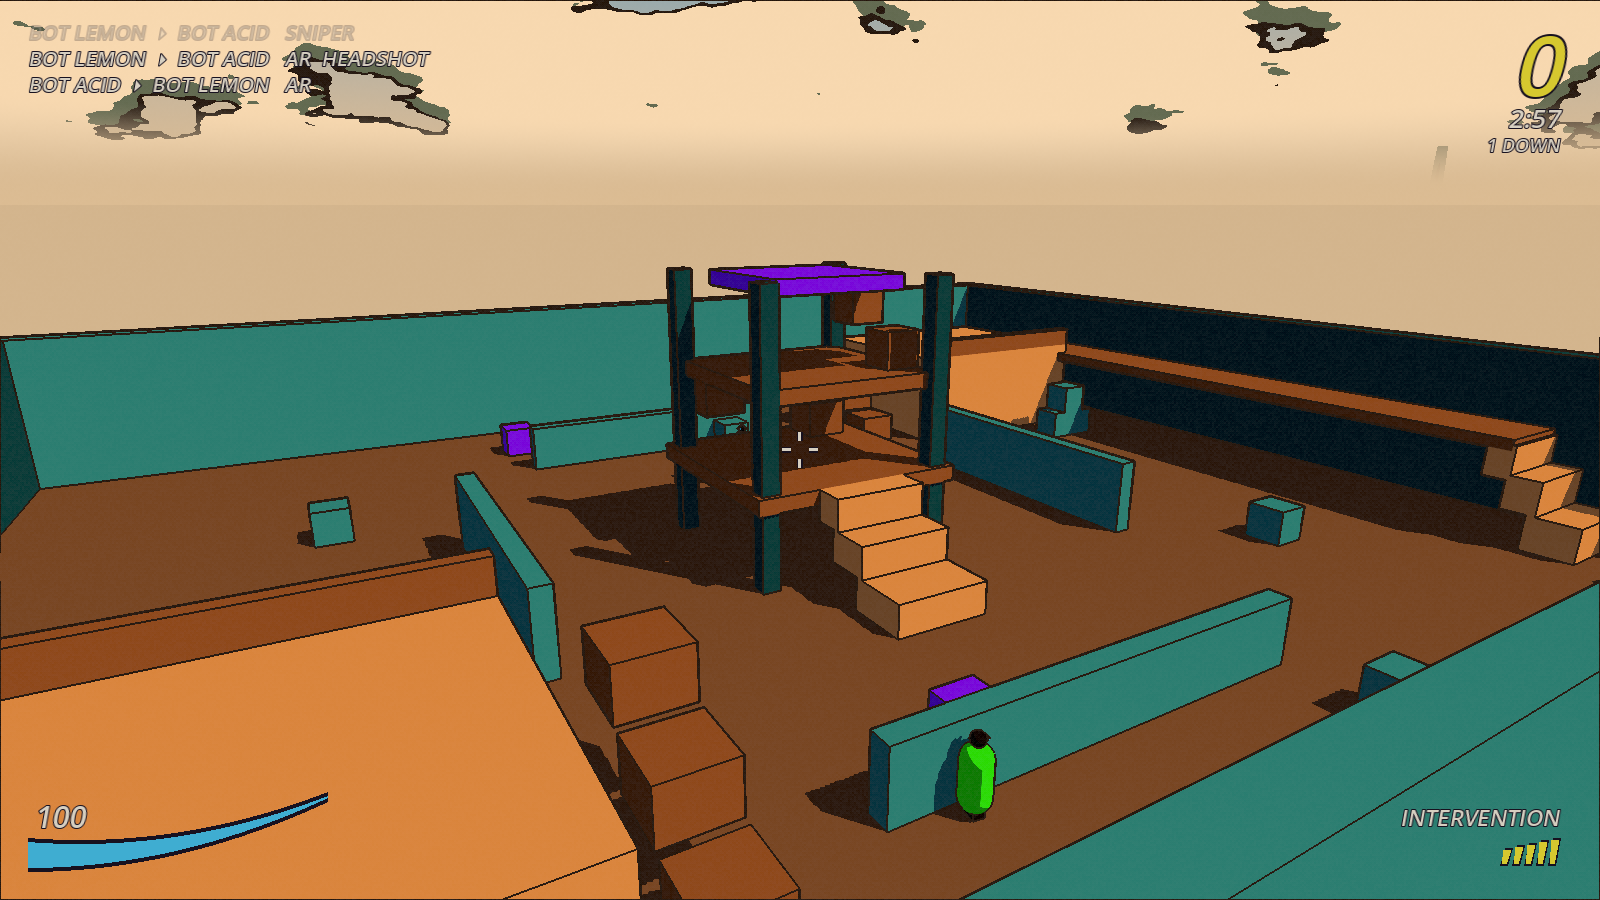
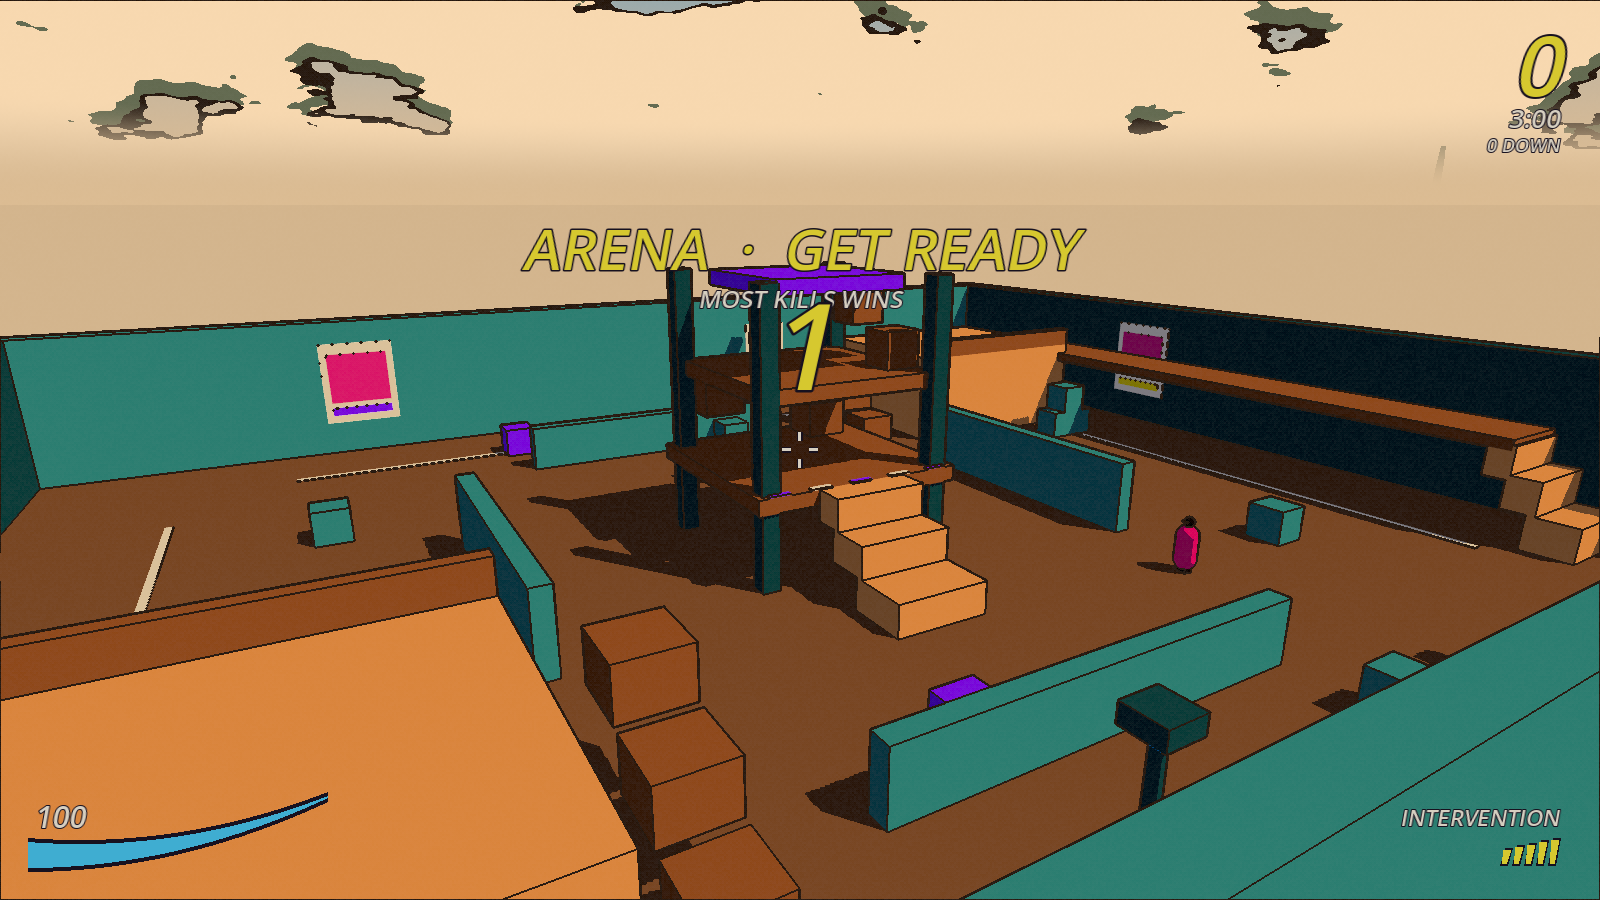
Details: arena and pit dressing, dusk pit palette, taglines under GET READY
- decor entries in the layout tables (no collision): six wall posters,
  five lamp posts with glowing heads, road paint, hazard stripes; the pit
  gets three posters and two lamps
- palette map pit (dusk) for LAST STAND via _palette_map(); the
  environment reads every sky key from the minigame's map
- manifest tagline drawn under GET READY; countdown digit moved below it
- tools/check_all.sh 3 of 3 PASS

diff --git a/DECISIONS.md b/DECISIONS.md
@@ -104,3 +104,5 @@ Append-only. One line per assumption: date, the decision, the reason. Newest at 
 - 2026-09-18 — Sniper viewmodel is Intervention-shaped and rounded: tube receiver, capsule magazine well, tapered stock with cheek riser and butt pad, capsule grip, bolt with a knob, long barrel with a big brake and a folded bipod, telescopic sight with rings, front and rear lenses. Hip pose moved closer and more central (0.20, −0.18, −0.27) with 20° yaw, 5° pitch, 8° roll so the length and the scope both read.
 - 2026-09-18 — Scope-in goes through the glass: the ADS pose puts the scope axis on the camera axis (model at y −0.115) with the eyepiece 5 cm from the eye; the FOV zoom is held until 55 % and finishes at 100 % (smoothstep), the HUD closes an ink iris from beyond the corners to the lens between 50 % and 90 % while the glass inside clears from dark to the zoomed view (60–90 %), the rifle leaves the frame at 64 % behind that fade, and the reticle appears at 90 %. `--ads_progress=0..1` pins the animation for screenshots (`sniper_ads_45.png`, `sniper_ads_75.png`).
 - 2026-09-18 — Sean: "revert the background for the board game, i liked the pink". The bay (water plane, rocks, buoys, island) is gone the same hour it went in; the board floats over the lilac-pink sky again. The space markers (coin, crate, spiked ball, "?" sign, start flag) stay.
+- 2026-09-18 — "Keep working, add details, same number of minigames" (Sean). Details added and screenshot-verified: board space markers (spinning coin, strapped crate, spiked ball, "?" sign, start flag, all bobbing), an 8-bar 128 BPM match music loop for the minigames (menu loop stays on the menu and board), arena dressing as non-colliding decor in the layout tables (six wall posters as paper + print + stripe, five lamp posts with glowing heads, road paint down the lanes, hazard stripes on the first deck; the pit gets three posters and two lamps), a dusk palette map "pit" for LAST STAND (hot orange sky over dark teal walls) through the `_palette_map()` hook with the environment now reading every sky key from that map, and a `tagline` per manifest drawn under GET READY (MOST KILLS WINS / HEADSHOTS COUNT DOUBLE / ONE LIFE. LAST ONE STANDING WINS). The AR was not touched, on his word.
+- 2026-09-18 — Sniper hip pose after four iterations with him: positive yaw (+25°) turns the muzzle left and swings the stock away right, so the scope is seen along its side with all its rings instead of into the eyepiece; position (0.26, −0.24, −0.50), pitch −3°, roll −8°. Negative yaw had been pointing the eyepiece at the camera.

diff --git a/STATUS.md b/STATUS.md
@@ -151,7 +151,7 @@ Cost: host tick loop 2.4–2.8 ms mean with three seats; client tick loop p95 4 
   (BOT TANGERINE 1 Bomba 14 coins, client 20, bot 15, host 11), 0 errors either side. Six
   seats headless, 3 rounds on FIGURE EIGHT (LAST STAND ×2 with 6 seats, SNIPERS): 0 errors.
 
-Numbers: `tools/test.sh` 69 tests, 7867 assertions, 87 scripts compiled, 0 failures. Headless
+Numbers: `tools/test.sh` 70 tests, 9939 assertions, 89 scripts compiled, 0 failures. Headless
 host + 2 bots, 2 rounds with 8 s minigames: round 1 ARENA (2 weapons), round 2 SNIPERS (1
 weapon, one headshot kill scored 2), board → minigame → rewards → board → minigame → finish, log
 24 lines, 0 warnings, 0 errors. Headless LAST STAND with 4 seats: 2 kills at ticks 394 and 608,
@@ -215,6 +215,13 @@ kHz), the sniper rebuilt rounded and Intervention-shaped with a closer 20° hip 
 scope-in now goes through the glass (rifle up → iris closes → glass clears → zoom → reticle)
 instead of zooming into the receiver. Frames: `arena_hip_sniper.png`, `sniper_ads_45.png`,
 `sniper_ads_75.png`, `arena_scoped_target.png`.
+
+Fourth round, "add details": board space markers, a 128 BPM match loop, arena and pit
+dressing (posters, lamps, road paint, hazard stripes), a dusk palette for the pit, taglines
+under GET READY, the sniper held low and across with the whole scope in frame. The bay under
+the board went in and came out on his note (pink sky stays). The AR was left alone on his word.
+Frames: `board_turn.png`, `arena_spectator_sky.png`, `last_stand_pit.png`, `snipers_intro.png`,
+`arena_hip_sniper.png`.
 
 ### Bugs found and fixed today (all measured before and after)
 

diff --git a/README.md b/README.md
@@ -45,6 +45,7 @@ Useful flags after `--`: `--autoplay` (a bot drives your seat), `--seed=N`, `--s
 `--screenshot=path.png --screenshot_at=5 --screenshot_quit` (add
 `--screenshot_event=minigame|reward|myturn|mychoose|finished|out|results` to start the timer on
 an event; `--give_item=bomb` and `--board_auto_roll` exercise the board UI from a fresh match),
+`--ads_progress=0..1` (pins the scope-in for a frame), `--board_overview` (whole board),
 `--spectate` (fixed showcase camera,
 no local player), `--rounds=N` (host rematches N times), `--scripted` (seeded per-tick inputs for
 every seat this peer owns; the determinism harness uses it).
